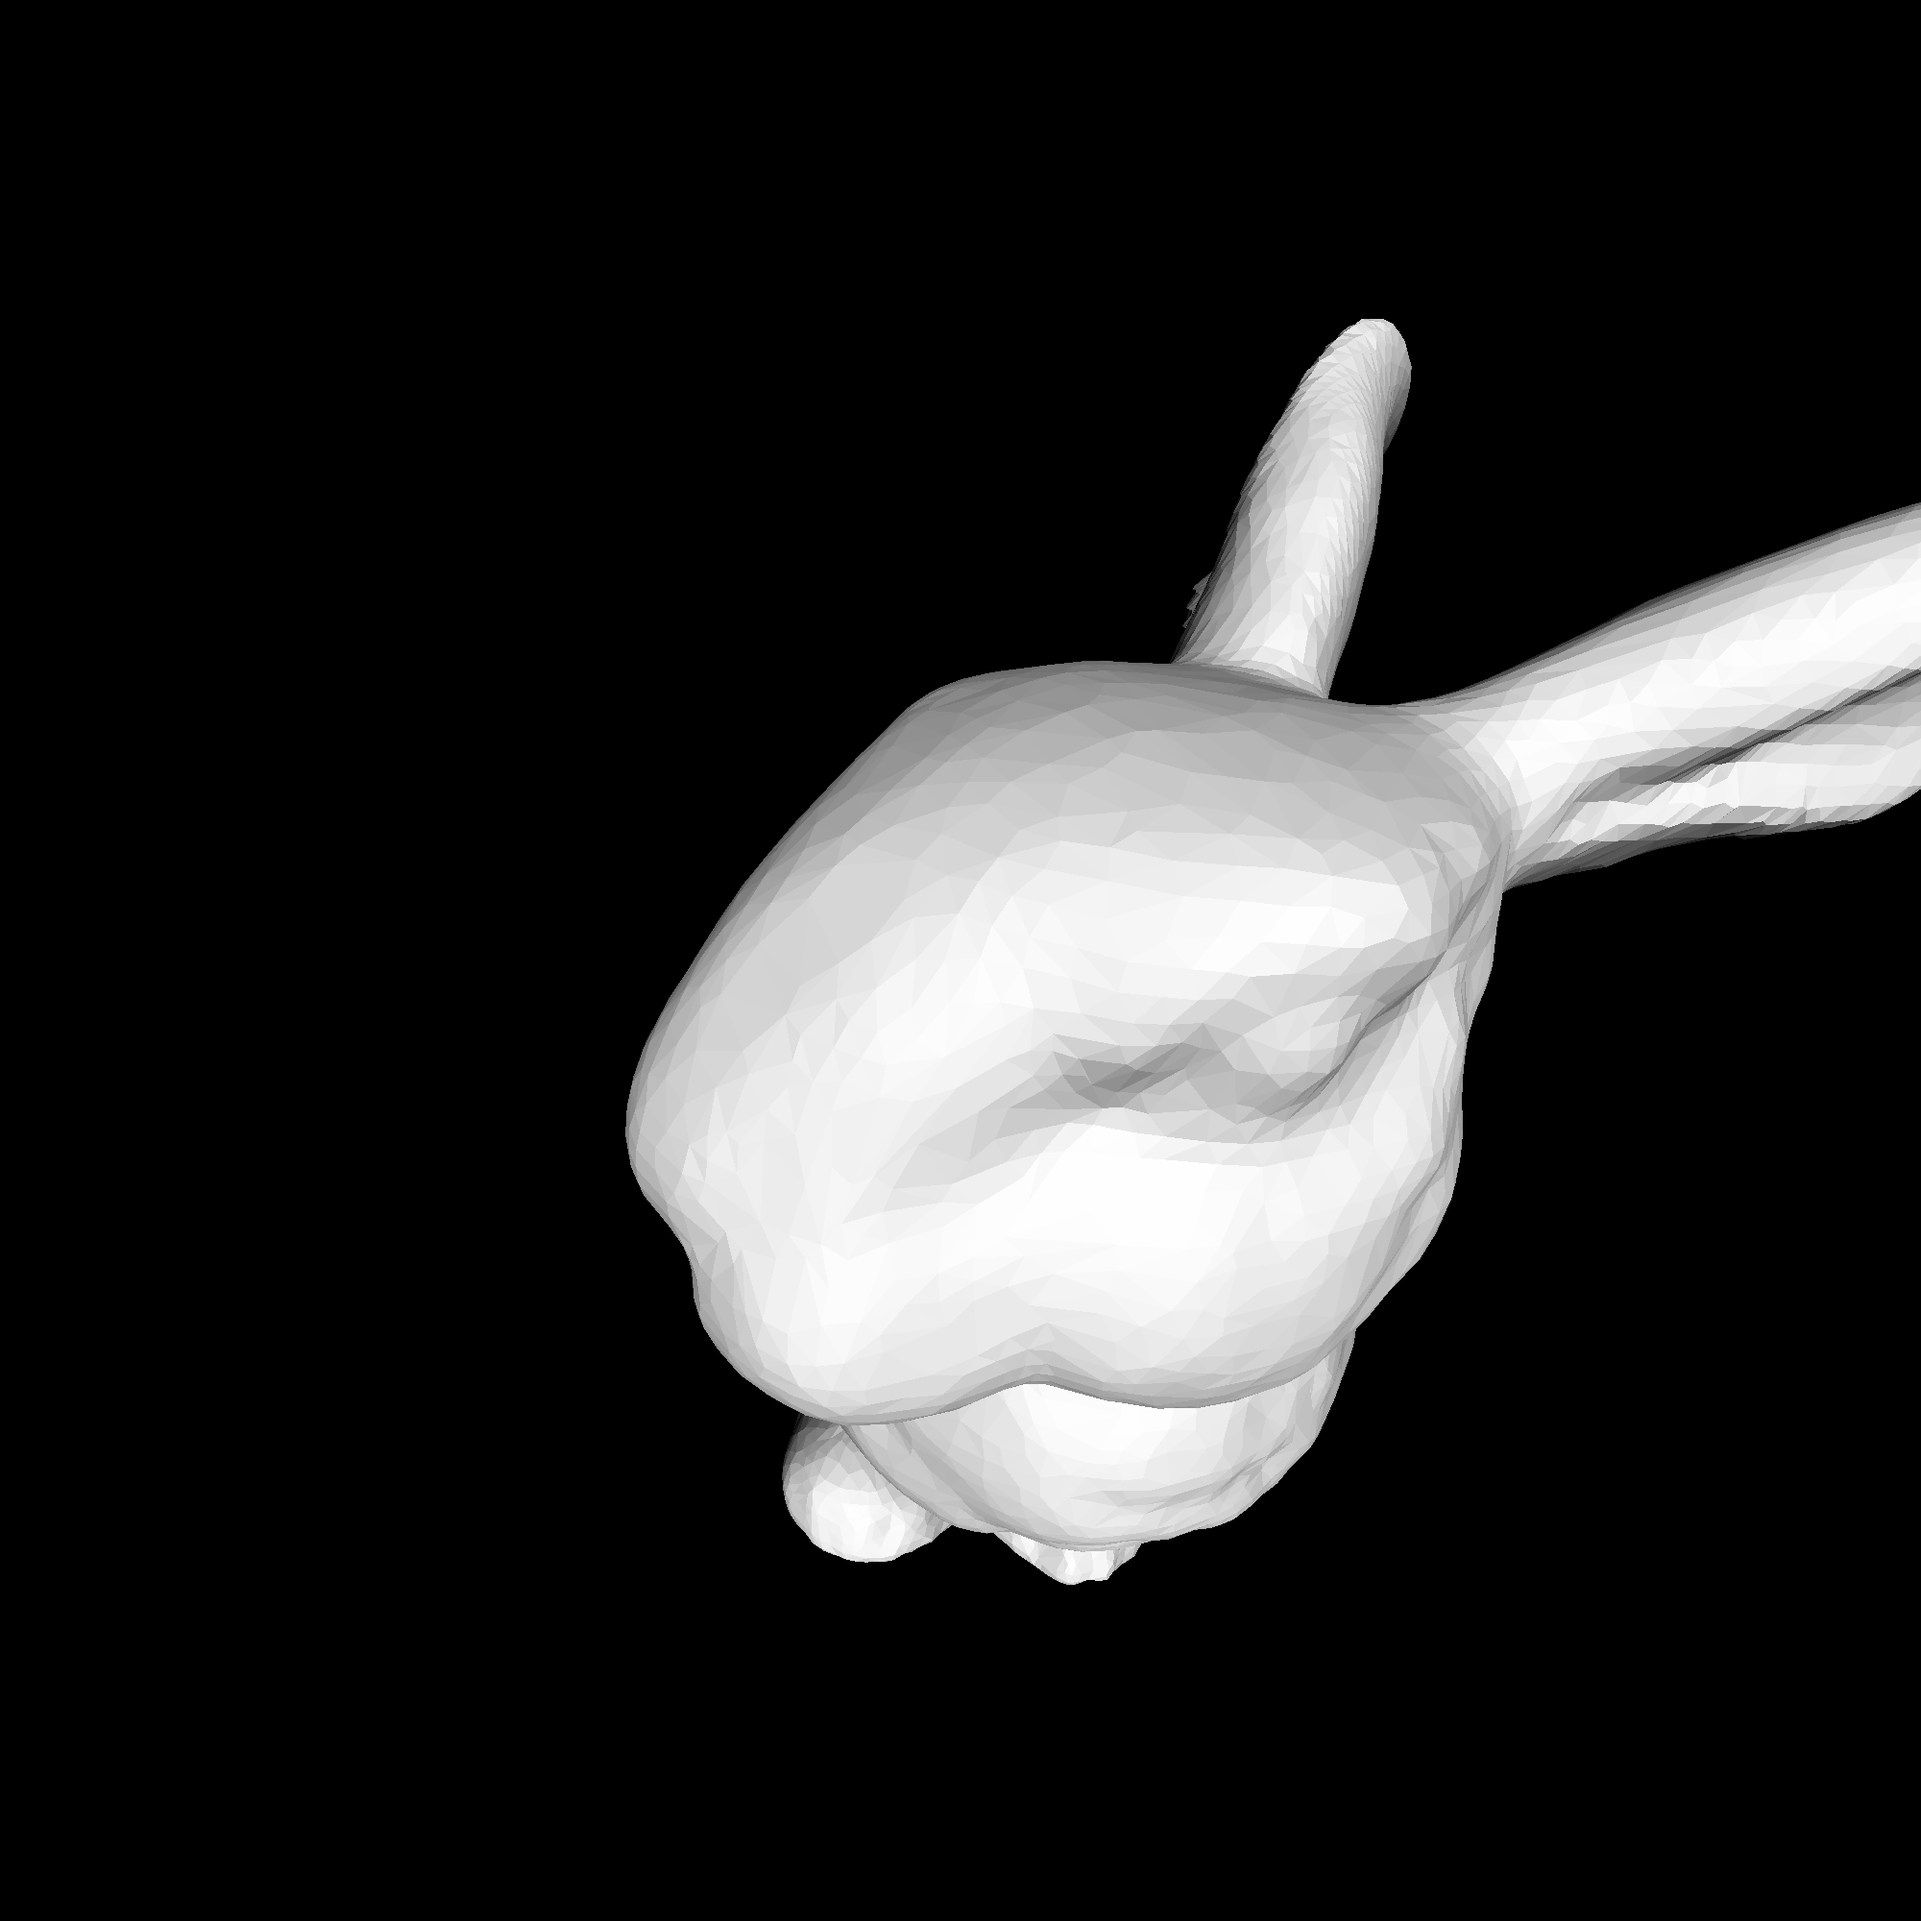
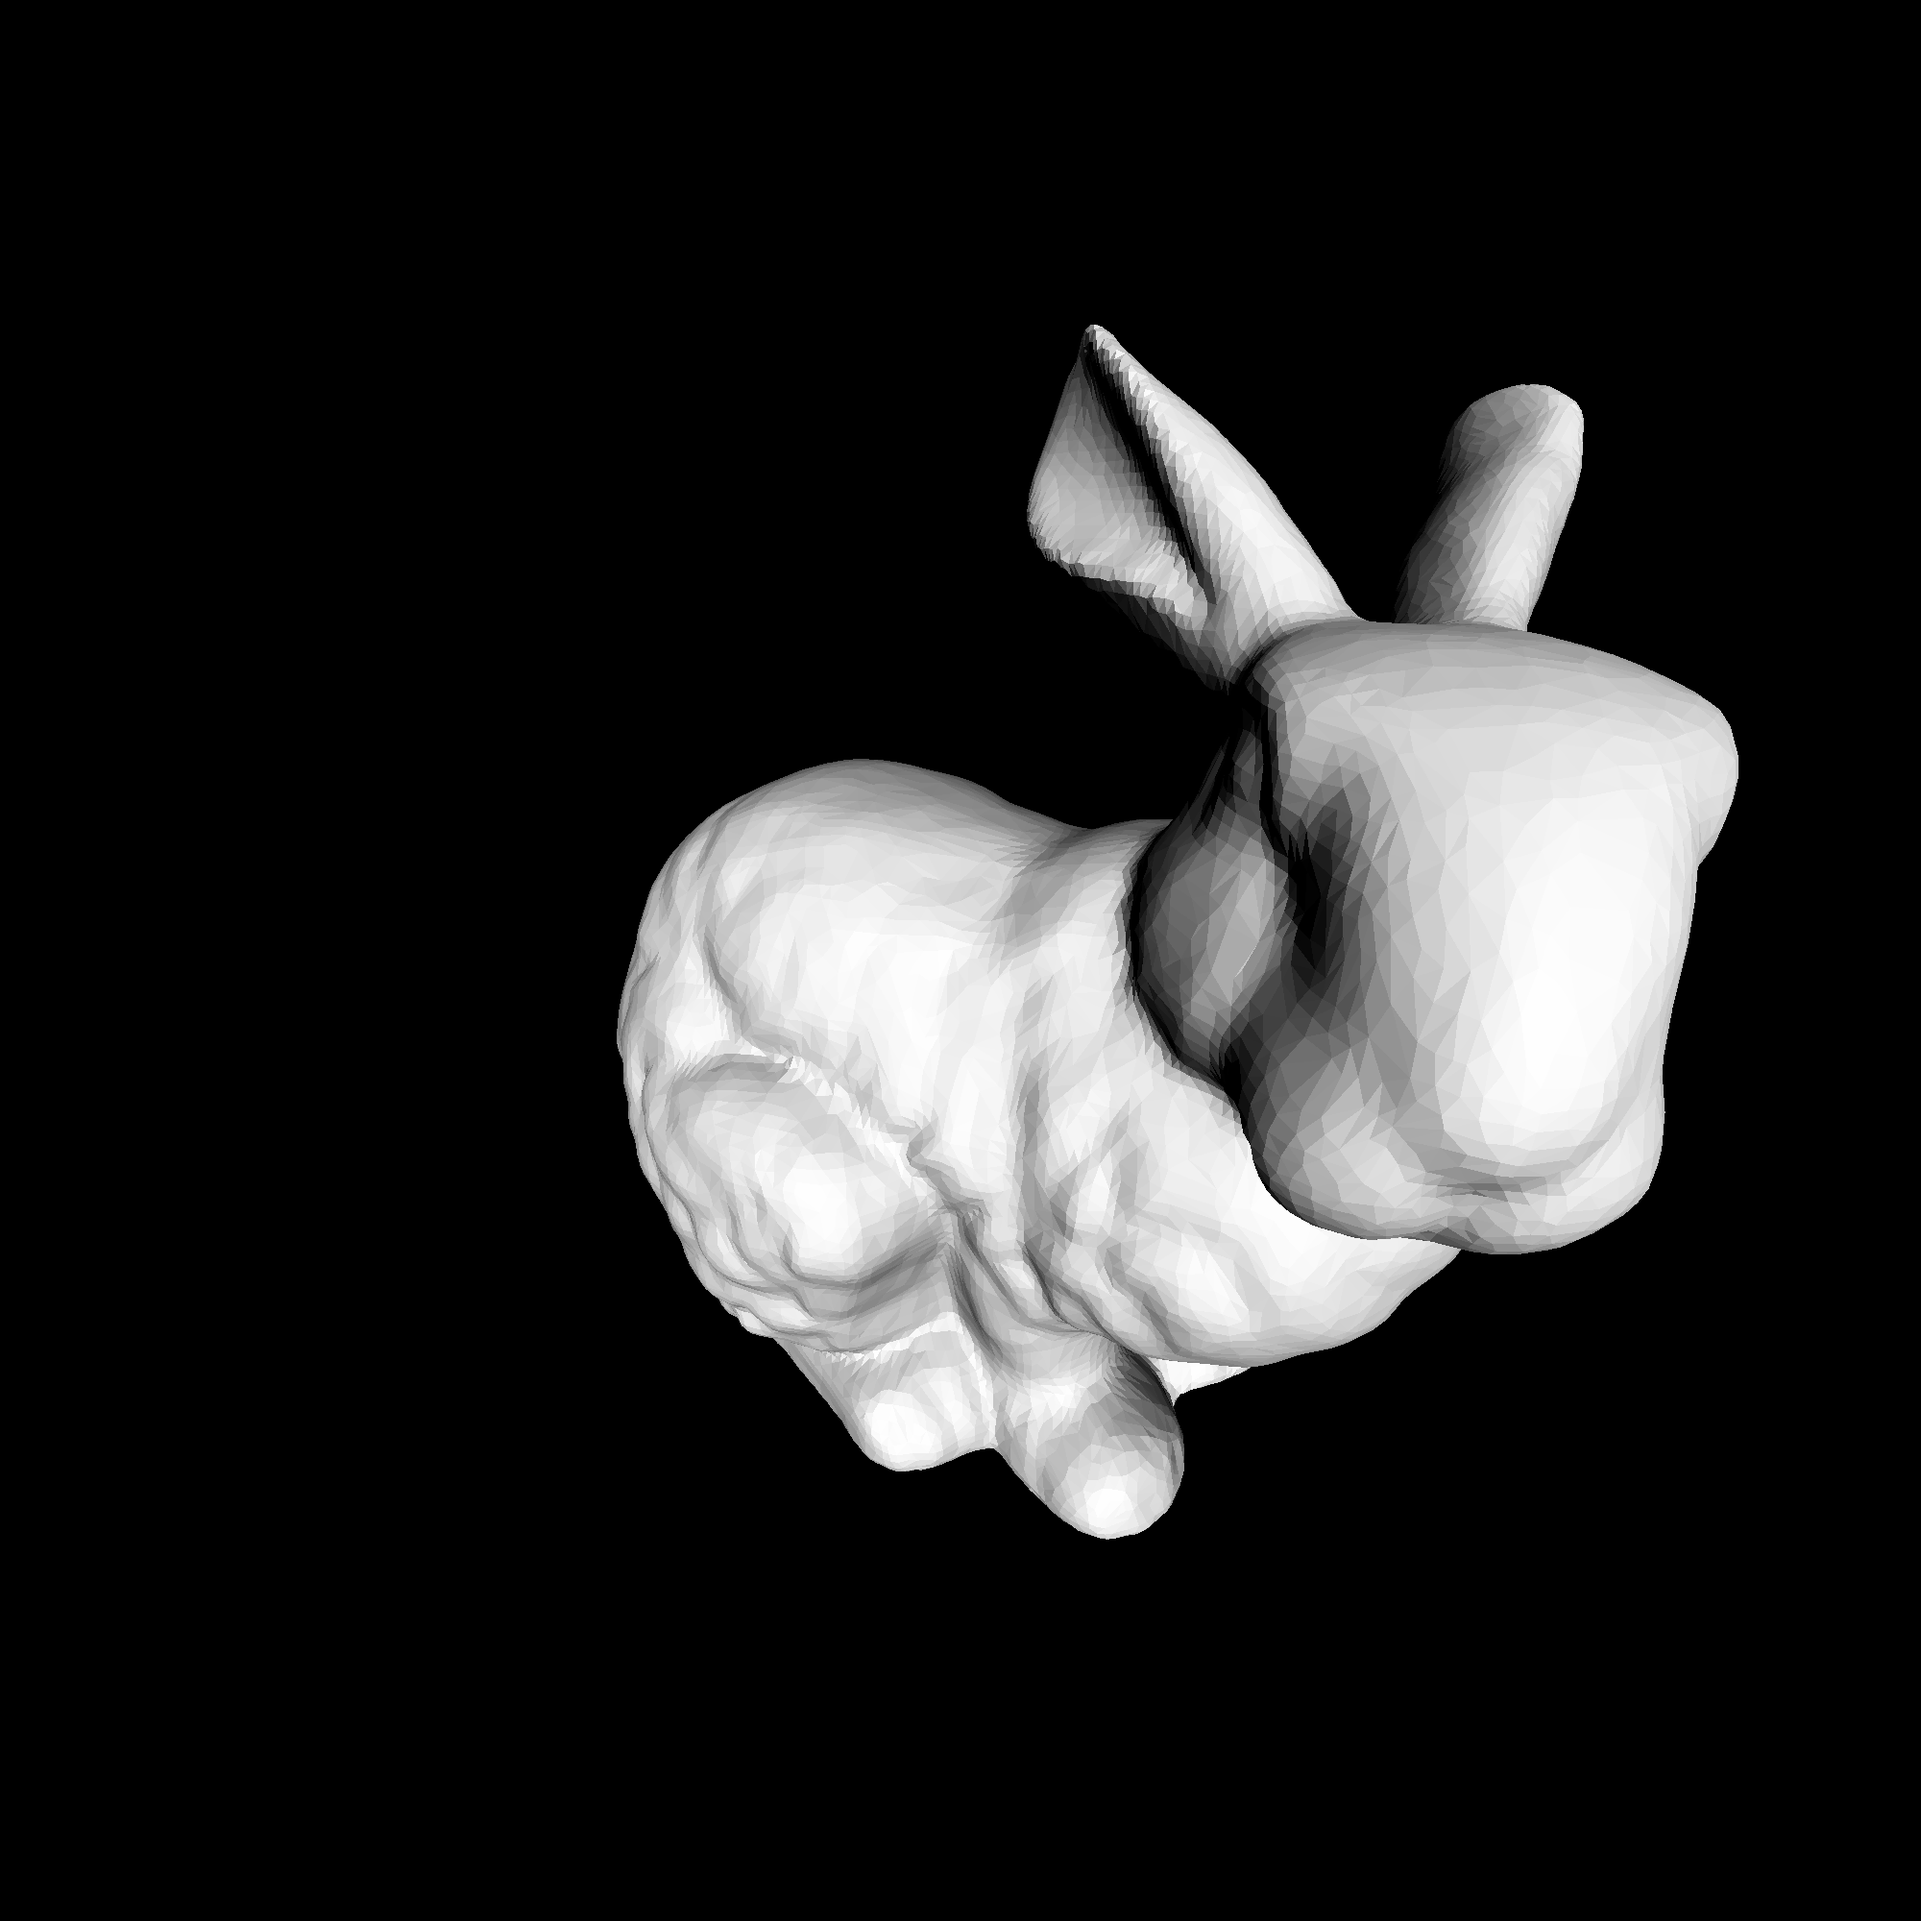
ver 1.1

Changed region(s): [[0.31, 0.155, 1.0, 0.837]]

diff --git a/main.py b/main.py
@@ -21,16 +21,12 @@ with open("model_1.obj") as f:
 
 # поворот и смещение модели
 def rotate_and_translate(v):
-    a, b, g = math.radians(0), math.radians(-100), math.radians(-30)
-    Rx = np.array([[1, 0, 0],
-                   [0, math.cos(a), math.sin(a)],
-                   [0, -math.sin(a), math.cos(a)]])
-    Ry = np.array([[math.cos(b), 0, math.sin(b)],
-                   [0, 1, 0],
-                   [-math.sin(b), 0, math.cos(b)]])
-    Rz = np.array([[math.cos(g), math.sin(g), 0],
-                   [-math.sin(g), math.cos(g), 0],
-                   [0, 0, 1]])
+    a, b, g = math.radians(30), math.radians(-150), math.radians(0)
+
+    Rx = np.array([[1, 0, 0], [0, math.cos(a), math.sin(a)], [0, -math.sin(a), math.cos(a)]])
+    Ry = np.array([[math.cos(b), 0, math.sin(b)], [0, 1, 0], [-math.sin(b), 0, math.cos(b)]])
+    Rz = np.array([[math.cos(g), math.sin(g), 0], [-math.sin(g), math.cos(g), 0], [0, 0, 1]])
+
     R = Rx @ Ry @ Rz
     t = np.array([0.0, -0.04, 0.1])  # отодвигаем от камеры
 
@@ -48,6 +44,7 @@ def barycentric(x, y, x0, y0, x1, y1, x2, y2):
     l0 = ((x - x2) * (y1 - y2) - (x1 - x2) * (y - y2)) / denom
     l1 = ((x0 - x2) * (y - y2) - (x - x2) * (y0 - y2)) / denom
     l2 = 1 - l0 - l1
+
     return l0, l1, l2
 
 # проективное преобразование
